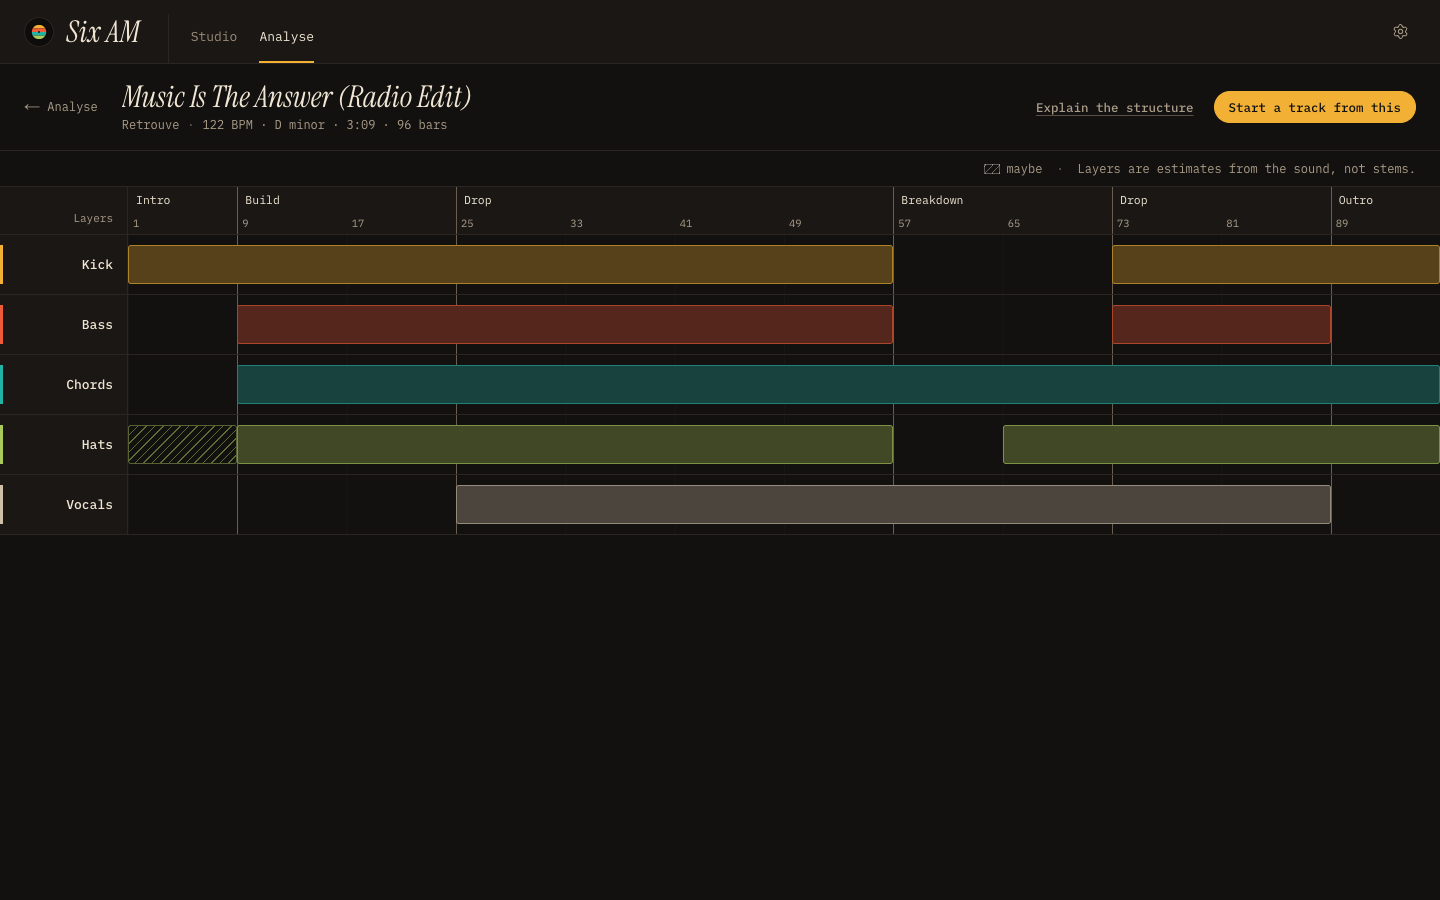
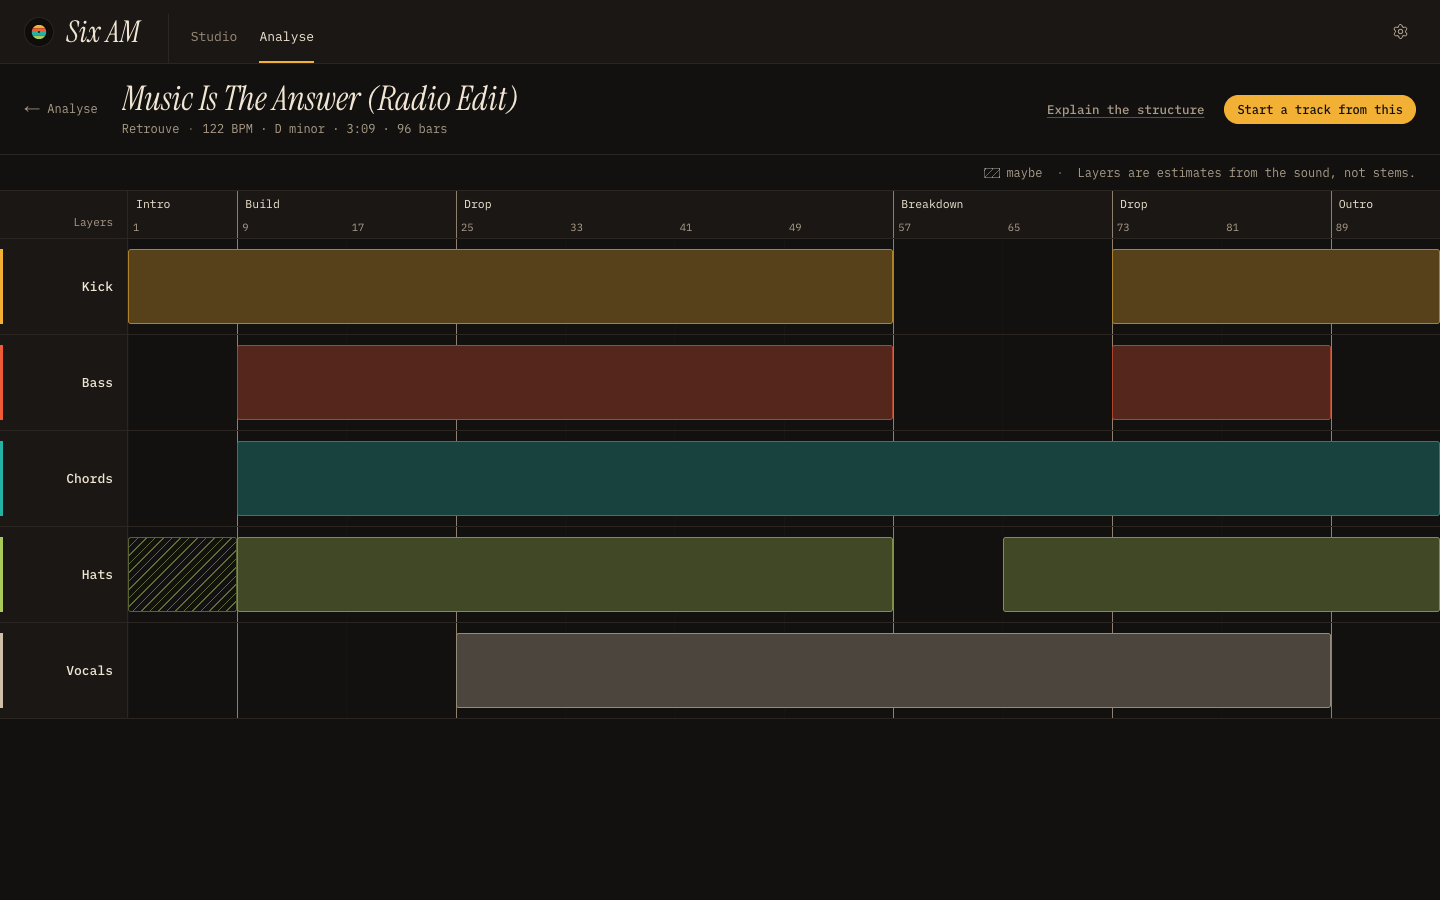
07 Six AM: map round-2 fix pass; T57

diff --git a/apps/07-six-am/src/app/prototypes/map3/map3.module.css b/apps/07-six-am/src/app/prototypes/map3/map3.module.css
@@ -18,7 +18,7 @@
 .back { flex: none; color: var(--muted); text-decoration: none; font-size: 12px; border-radius: 4px; transition: color 150ms ease; }
 .back:hover { color: var(--ink); }
 .title { min-width: 0; flex: 1 1 auto; }
-.title h1 { margin: 0; font: italic 400 30px/1.1 var(--f-serif); white-space: nowrap; overflow: hidden; text-overflow: ellipsis; }
+.title h1 { margin: 0; font: italic 400 34px/1.1 var(--f-serif); white-space: nowrap; overflow: hidden; text-overflow: ellipsis; }
 .title p { margin: 3px 0 0; display: flex; gap: 0; font-size: 12px; color: var(--muted); min-width: 0; }
 .uploader { min-width: 0; white-space: nowrap; overflow: hidden; text-overflow: ellipsis; }
 .facts { flex: none; white-space: nowrap; font-variant-numeric: tabular-nums; }
@@ -27,16 +27,15 @@
 .textBtn { font: 500 12.5px var(--f-mono); color: var(--muted); background: none; border: 0; border-radius: 4px; padding: 0 6px; min-height: 32px; cursor: pointer; white-space: nowrap; text-decoration: underline; text-underline-offset: 3px; text-decoration-color: #5a4f45; transition: color 150ms ease; }
 .textBtn:hover { color: var(--ink); }
 .textBtn:disabled { color: #7a6d5d; cursor: default; text-decoration: none; }
-.start { font: 500 12.5px var(--f-mono); color: var(--bg); background: var(--gold); border: 1px solid var(--gold); border-radius: 99px; padding: 7px 14px; cursor: pointer; white-space: nowrap; transition: background-color 150ms ease, transform 120ms ease-out; }
+.start { font: 500 12px var(--f-mono); color: var(--bg); background: var(--gold); border: 1px solid var(--gold); border-radius: 99px; padding: 6px 12px; cursor: pointer; white-space: nowrap; transition: background-color 150ms ease, transform 120ms ease-out; }
 .start:hover { background: #f6bf52; }
 .start:active { transform: scale(.97); }
 .start:disabled { background: transparent; border-color: #3a322c; color: var(--muted); cursor: default; transform: none; }
 
-/* Mentor: one quiet band, answer and its source */
-.mentor { flex: none; margin: 0 24px 16px; padding: 12px 16px; background: var(--panel); border-radius: 6px; }
-.mentor p { margin: 0; max-width: 100ch; line-height: 1.6; text-wrap: pretty; }
+/* Mentor: plain text under the map, the map's own note */
+.mentor { flex: none; margin: 0 24px 32px 152px; }
+.mentor p { margin: 0; max-width: 92ch; line-height: 1.7; color: var(--ink); text-wrap: pretty; }
 .mentor .textBtn { min-height: 0; padding: 0 2px; }
-.source { margin-top: 4px !important; font-size: 11.5px; color: var(--faint); }
 
 /* Read-out (empty until pointed) and the one estimate line */
 .info { flex: none; display: flex; align-items: center; gap: 24px; height: 36px; padding: 0 24px; border-top: 1px solid var(--line); font-size: 12px; }
@@ -46,7 +45,7 @@
 .hatchKey { width: 16px; height: 10px; border: 1px solid rgba(241,230,211,.35); background: repeating-linear-gradient(135deg, rgba(241,230,211,.4) 0 1px, transparent 1px 5px); }
 
 /* Timeline: fixed 60 px lanes, air below */
-.grid { flex: none; position: relative; display: grid; grid-template-columns: 128px minmax(0, 1fr); grid-template-rows: 48px repeat(5, 60px); border-top: 1px solid var(--line); margin-bottom: 32px; }
+.grid { flex: none; position: relative; display: grid; grid-template-columns: 128px minmax(0, 1fr); grid-template-rows: 48px repeat(5, clamp(60px, calc((100dvh - 330px) / 5), 96px)); border-top: 1px solid var(--line); margin-bottom: 24px; }
 .corner { background: var(--panel); border: solid var(--line); border-width: 0 1px 1px 0; display: flex; align-items: flex-end; justify-content: flex-end; padding: 0 14px 8px; font-size: 11px; color: var(--muted); cursor: help; }
 .ruler { position: relative; background: var(--panel); border-bottom: 1px solid var(--line); }
 .sec { position: absolute; top: 0; height: 26px; padding: 0 8px; background: none; border: 0; font: 400 11.5px/26px var(--f-mono); color: var(--ink); text-align: left; white-space: nowrap; overflow: hidden; cursor: pointer; transition: background-color 150ms ease; }
@@ -55,14 +54,17 @@
 .root .sec:focus-visible { outline-offset: -1px; }
 /* Too narrow to name: the label appears on hover or focus, on a plate over its neighbours */
 .narrow { overflow: visible; z-index: 2; }
+/* A small notch says a section is there even when its name is hidden */
+.narrow::before { content: ""; position: absolute; left: 4px; top: 9px; width: 3px; height: 8px; border-radius: 1px; background: var(--muted); }
+.narrow:hover::before, .narrow:focus-visible::before { visibility: hidden; }
 .narrow span { visibility: hidden; position: absolute; left: 0; top: 0; padding: 0 8px; background: #2b2622; border-radius: 0 3px 3px 0; }
 .narrow:hover span, .narrow:focus-visible span { visibility: visible; }
 .num { position: absolute; bottom: 4px; padding-left: 5px; font-size: 10.5px; line-height: 14px; color: var(--muted); font-variant-numeric: tabular-nums; }
 .here { position: absolute; top: 0; height: 26px; padding: 0 8px; font: 500 11.5px/26px var(--f-mono); color: var(--ink); white-space: nowrap; font-variant-numeric: tabular-nums; z-index: 1; }
-.secLine { position: absolute; top: 0; bottom: 0; width: 1px; background: #6a5e52; pointer-events: none; }
+.secLine { position: absolute; top: 0; bottom: 0; width: 1px; background: #8f806e; pointer-events: none; }
 .lh { --c: var(--muted); position: relative; display: flex; align-items: center; justify-content: flex-end; padding: 0 14px; background: var(--panel); border: solid var(--line); border-width: 0 1px 1px 0; font-weight: 500; font-size: 13px; }
 .lh::before { content: ""; position: absolute; left: 0; top: 10px; bottom: 10px; width: 3px; background: var(--c); }
-.lane { position: relative; border-bottom: 1px solid var(--line); background-image: linear-gradient(90deg, rgba(241,230,211,.025) 1px, transparent 1px); background-size: var(--step) 100%; }
+.lane { position: relative; border-bottom: 1px solid var(--line); background-image: linear-gradient(90deg, rgba(241,230,211,.018) 1px, transparent 1px); background-size: var(--step) 100%; }
 .selCol { position: absolute; top: 0; bottom: 0; background: rgba(241,230,211,.05); pointer-events: none; }
 
 /* Blocks: one flat fill and a 1 px edge in the lane colour. "Maybe" is hatched. */

diff --git a/apps/07-six-am/src/app/prototypes/map3/studio-map.tsx b/apps/07-six-am/src/app/prototypes/map3/studio-map.tsx
@@ -87,15 +87,6 @@ export function StudioMap({ track, initialState, initialMentor }: { track: Track
         </div>
       </div>
 
-      {mentor && (
-        <section className={s.mentor} aria-label="Mentor" aria-live="polite">
-          <p>
-            {mentorAnswer(track)}{more && <> {MENTOR_MORE}</>}
-            {!more && <> <button className={s.textBtn} onClick={() => setMore(true)}>Tell me more</button></>}
-          </p>
-          <p className={s.source}>From this map&apos;s estimates, not the track&apos;s stems.</p>
-        </section>
-      )}
 
       {state !== "empty" && <div className={s.info}>
         <span className={s.read} aria-live="polite">{read}</span>
@@ -156,11 +147,19 @@ export function StudioMap({ track, initialState, initialMentor }: { track: Track
         {state === "empty" && (
           <div className={s.empty}>
             <h2>Not mapped yet</h2>
-            <p>Play the whole track and the map fills in as it plays. Six AM keeps the measurements, never the audio.</p>
+            <p>Play the whole track; the map fills in as it plays.</p>
             <button className={s.start} onClick={() => setState("listening")}>Listen and map</button>
           </div>
         )}
       </div>
+      {mentor && (
+        <section className={s.mentor} aria-label="Mentor" aria-live="polite">
+          <p>
+            {mentorAnswer(track)}{more && <> {MENTOR_MORE}</>}
+            {!more && <> <button className={s.textBtn} onClick={() => setMore(true)}>Tell me more</button></>}
+          </p>
+        </section>
+      )}
     </div>
   );
 }

diff --git a/docs/products/07-six-am/decisions.md b/docs/products/07-six-am/decisions.md
@@ -185,3 +185,4 @@ Every decision except ops (decision 0026): L-numbers for learning decisions, T-n
 | L124 | 2026-10-25 | AI loops on evidence (`evals-runs/2026-10-25-ai-loops-grading.md`): **Stable Audio 2.5 wins, conditionally** (tempo 5/5, tonic 5/5, fastest, seedable, cost matches; X4 2/5 from whole-second lengths, loop clicks and major-for-minor). Lyria 3 Clip kept as an off-by-default switch (half price, on tempo, but off key 3/5, 4× slower, fixed 30 s, some clipping). Stable Audio 3.0 dropped (tempo 0/5). Fix pass: request ceil(seconds) and trim to the exact bar length on the server, a short fade/crossfade at the seam, A/B the minor-key wording; then re-grade X4 | PM (data-evals' evidence) | S4 | |
 | T55 | 2026-10-25 | Map round-1 fixes: header ivory/grey with one gold Start (smaller), metadata grey on the artist line; lanes 60 px flat with a 1 px edge; estimate said once (strip + Layers tooltip), Mentor source as a quiet line under the answer; full-height section-start lines, faded 16-bar lines, hidden-if-it-doesn't-fit section names shown on hover/focus; one listening indicator (dashed playhead + bar/time label); Mentor band without label or bar | PM | S1 design | |
 | T56 | 2026-10-25 | Map critic round 2 (8/10): Mentor answer moves below the map as plain text; its source footnote dropped (the estimate line sits with the map); empty state drops the privacy promise line; the gold Start stays (house pattern: one gold primary), the critic's "one quiet button style" not taken | PM | S1 design | |
+| T57 | 2026-10-25 | Map round-2 fixes: lanes follow the window (60–96 px); Mentor answer under the map, aligned to the lanes; ruler notch for sections whose name is hidden; brighter section-start lines, fainter 16-bar lines; title 34 px, smaller Start pill | PM | S1 design | |
